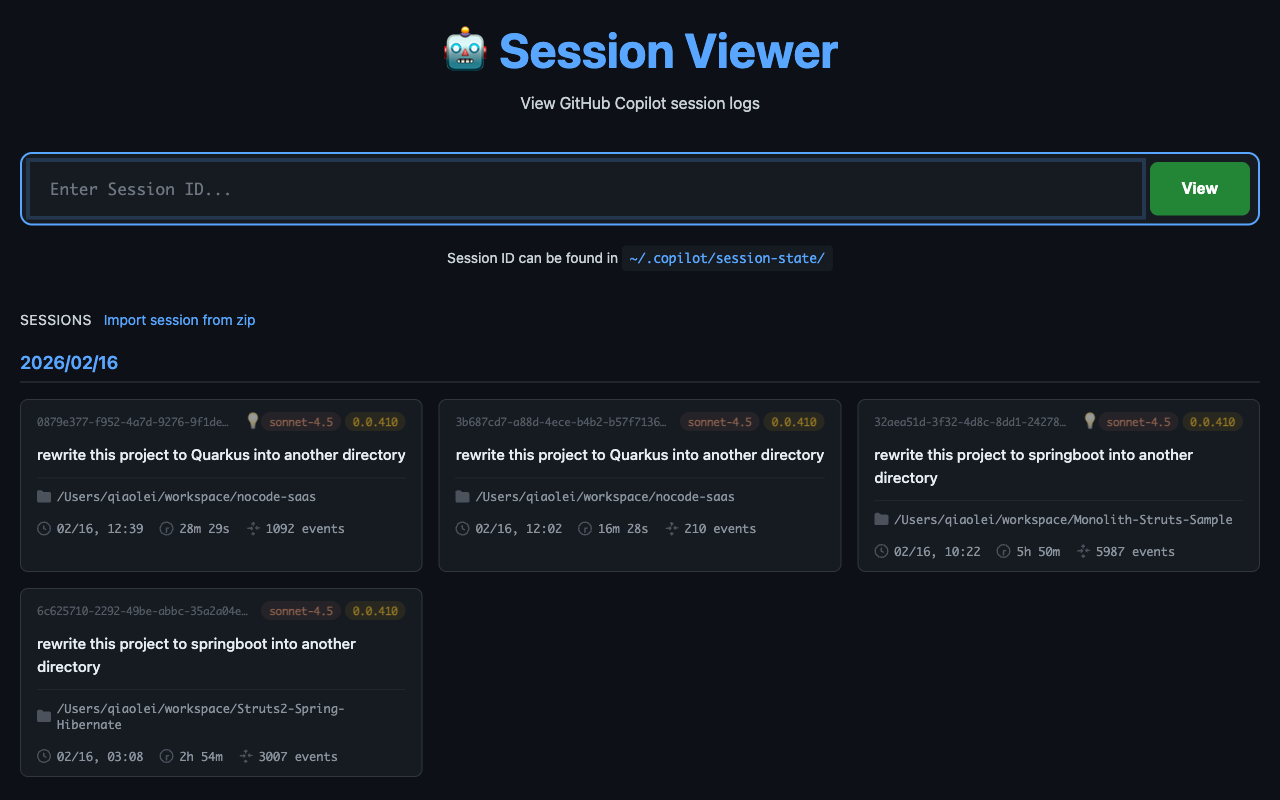
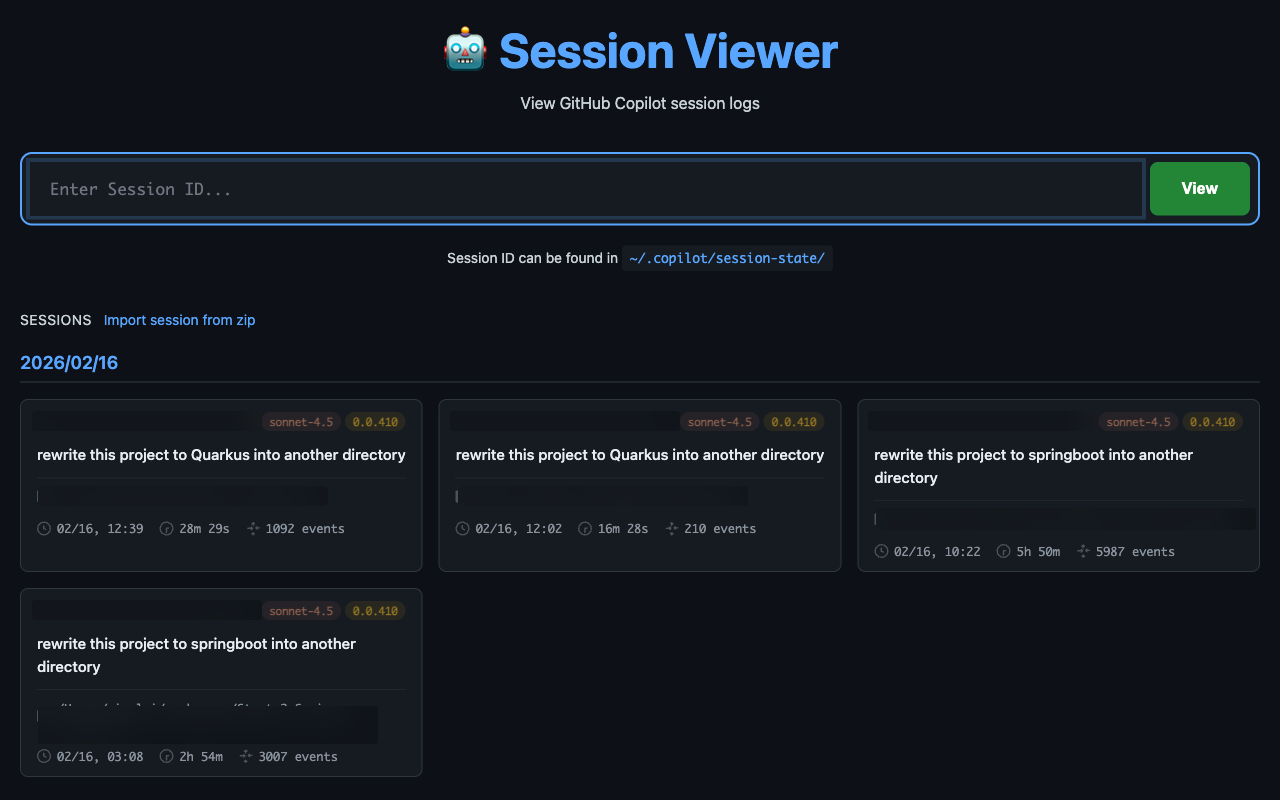
docs: mask sensitive info in screenshots and use absolute image URLs
Blur session IDs, workspace paths, and repo names in README screenshots
to protect privacy. Switch image references to absolute GitHub raw URLs
so they render correctly on both GitHub and npmjs.org.

diff --git a/README.md b/README.md
@@ -9,13 +9,13 @@
 A modern web-based viewer for analyzing GitHub Copilot CLI session logs with virtual scrolling, infinite loading, time analysis, and AI-powered insights.
 
 ### Session List
-![Session List](docs/images/homepage.png)
+![Session List](https://raw.githubusercontent.com/qiaolei81/copilot-session-viewer/main/docs/images/homepage.png)
 
 ### Session Detail — Event Stream with Virtual Scrolling
-![Session Detail](docs/images/session-detail.png)
+![Session Detail](https://raw.githubusercontent.com/qiaolei81/copilot-session-viewer/main/docs/images/session-detail.png)
 
 ### Time Analysis — Gantt Timeline & Sub-Agent Breakdown
-![Time Analysis](docs/images/time-analysis.png)
+![Time Analysis](https://raw.githubusercontent.com/qiaolei81/copilot-session-viewer/main/docs/images/time-analysis.png)
 
 ---
 
